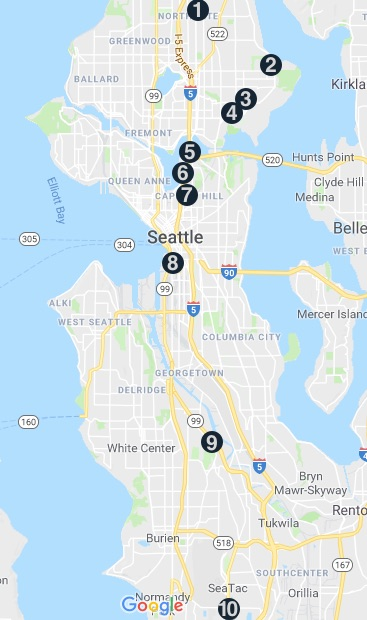
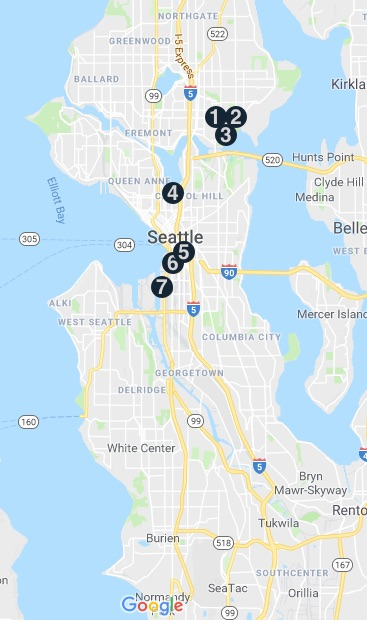
add certain kiosk locations

diff --git a/src/components/Kiosks.js b/src/components/Kiosks.js
@@ -18,16 +18,19 @@ const Flex = styled.div`
   }
 `
 
-// const OL = styled.ol`
-//   line-height: 5vw;
-//   margin: 0 2em;
-//   color: ${props => props.theme.primary600}
-//   font-weight: 600;
-//   @media (max-width: 500px) {
-//     line-height: 22px;
-//     margin: 2em auto 0;
-//   }
-// `
+const OL = styled.ol`
+  margin: 0 2em;
+  color: ${props => props.theme.primary600}
+  font-weight: 600;
+  line-height: 60px;
+  @media (max-width: 1000px) {
+    line-height: 40px;
+  }
+  @media (max-width: 500px) {
+    line-height: 22px;
+    margin: 2em auto 0;
+  }
+`
 const ImgContainer = styled.div`
   max-width: 40vw;
   @media (max-width: 500px) {
@@ -50,6 +53,15 @@ export const Kiosks = () => (
         <ImgContainer>
           <Img src={kiosks} alt="kiosks"/>
         </ImgContainer>
+        <OL>
+          <li>University of Washington Hall Health</li>
+          <li>University of Washington Health Sciences</li>
+          <li>University of Washington Husky Union Building</li>
+          <li>Hutch Kids</li>
+          <li>DESC (3rd Ave/Yesler)</li>
+          <li>Pioneer Square Clinic</li>
+          <li>St. Martin's de Porres</li>
+        </OL>
       </Flex>
     </utils.ContentContainer>
   </utils.OuterContainer>
